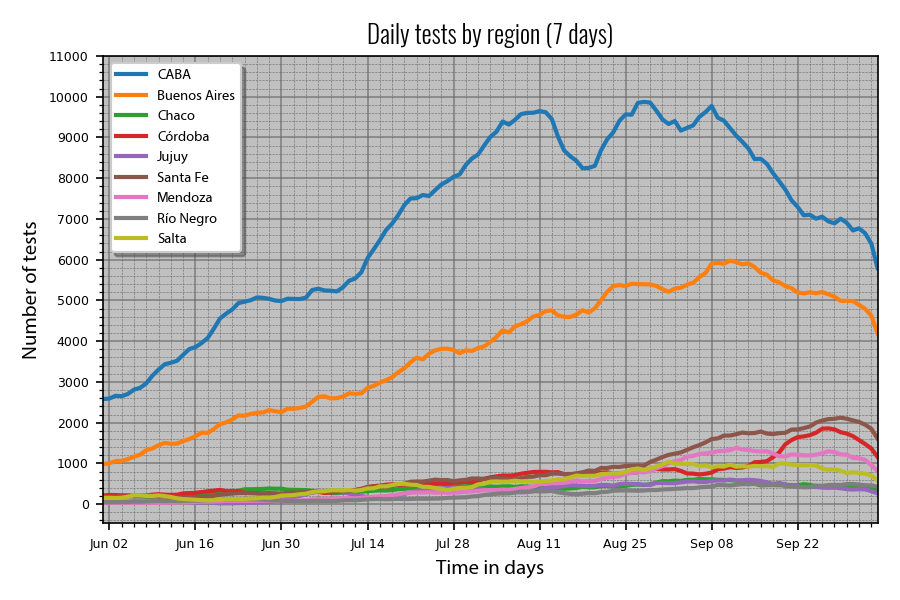
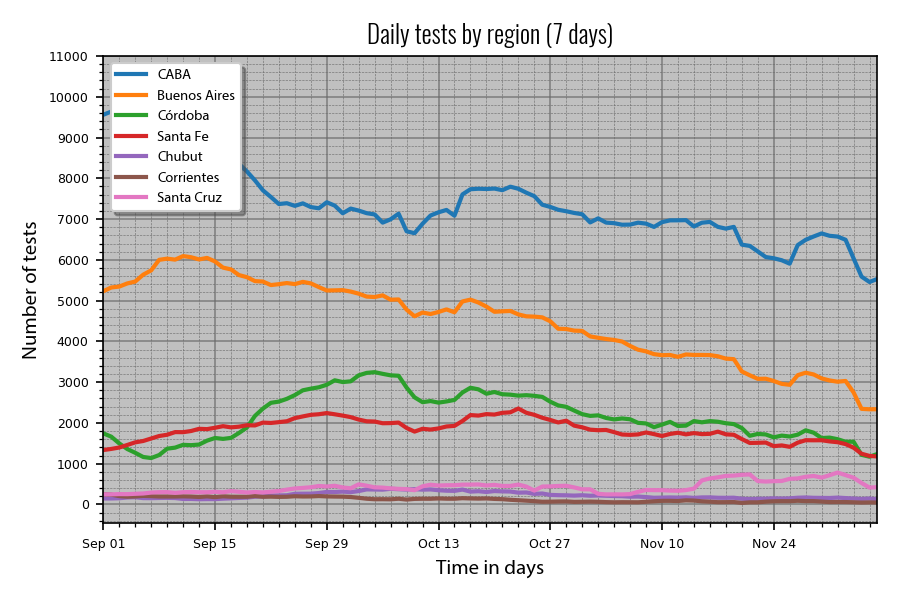
Updating testing charts...

Changed region(s): [[0.0622, 0.09, 0.9956, 0.93], [0.0622, 0.18, 0.1244, 0.24], [0.0933, 0.9, 0.1556, 0.93]]

diff --git a/COVID-19_DataGobAr_TestsAnalysis.py b/COVID-19_DataGobAr_TestsAnalysis.py
@@ -14,8 +14,7 @@ print("https://datos.gob.ar/dataset?q=covid")
 print("-----------------------------------------------")
 print()
 
-#Selecting data: "Confirmed", "Deaths" or "Recovered"
-regions = ["CABA", "Buenos Aires", "Chaco", "Córdoba", "Jujuy", "Santa Fe", "Mendoza", "Río Negro", "Salta"]
+regions = ["CABA", "Buenos Aires", "Córdoba", "Santa Fe", "Chubut", "Corrientes", "Santa Cruz"]
 
 fileName = "Covid19Determinaciones.csv"
 fileCompletePath = "Argentina_Data/datos.gob.ar/" + fileName
@@ -23,14 +22,14 @@ chartPath = "Argentina_Data/actual_charts/testing/"
 colorlist = ["orange", "tab:blue", "tab:red", "tab:green"]
 
 dataStartDate = "2020-02-11"
-dataEndDate = "2020-10-08"
-wantedStartDate = "2020-06-01"
-wantedEndDate = "2020-10-05"
+dataEndDate = "2020-12-14"
+wantedStartDate = "2020-09-01"
+wantedEndDate = "2020-12-07"
 dataPeriod = pd.date_range(dataStartDate, dataEndDate)
 plotScale = "linear"
 
 #Deciding language for titles and tags...
-lg = 0 # 0 for english, 1 for spanish
+lg = 1 # 0 for english, 1 for spanish
 ticksSizes = [1000, 150000, 0.15, 30000]
 
 #Deciding if you want to save and show charts...
